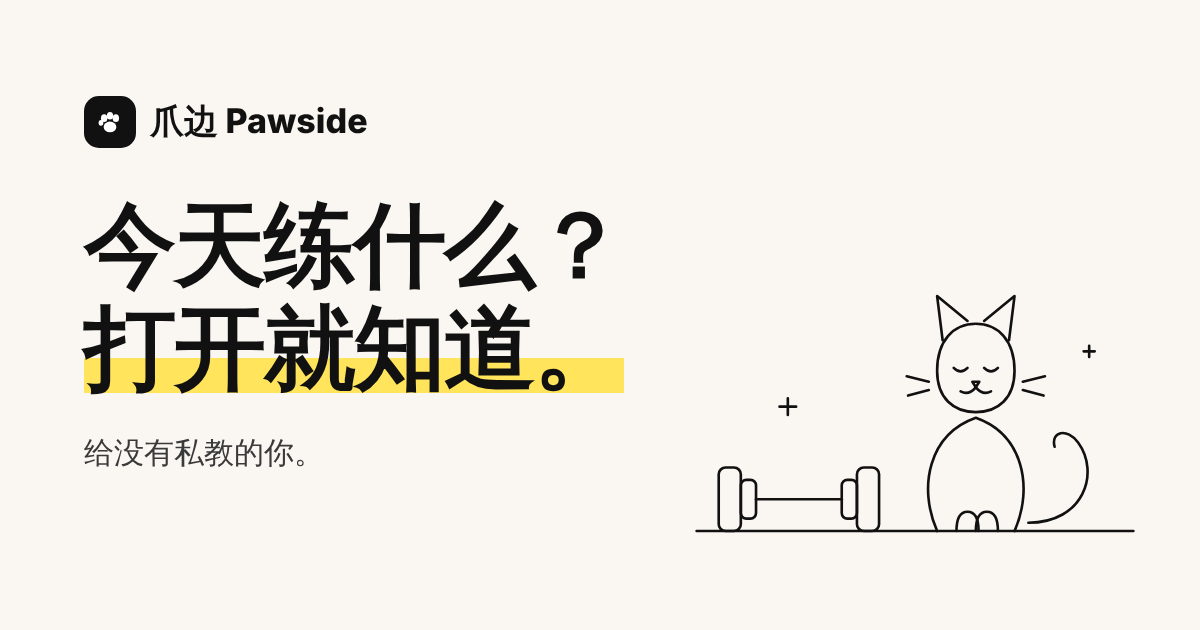
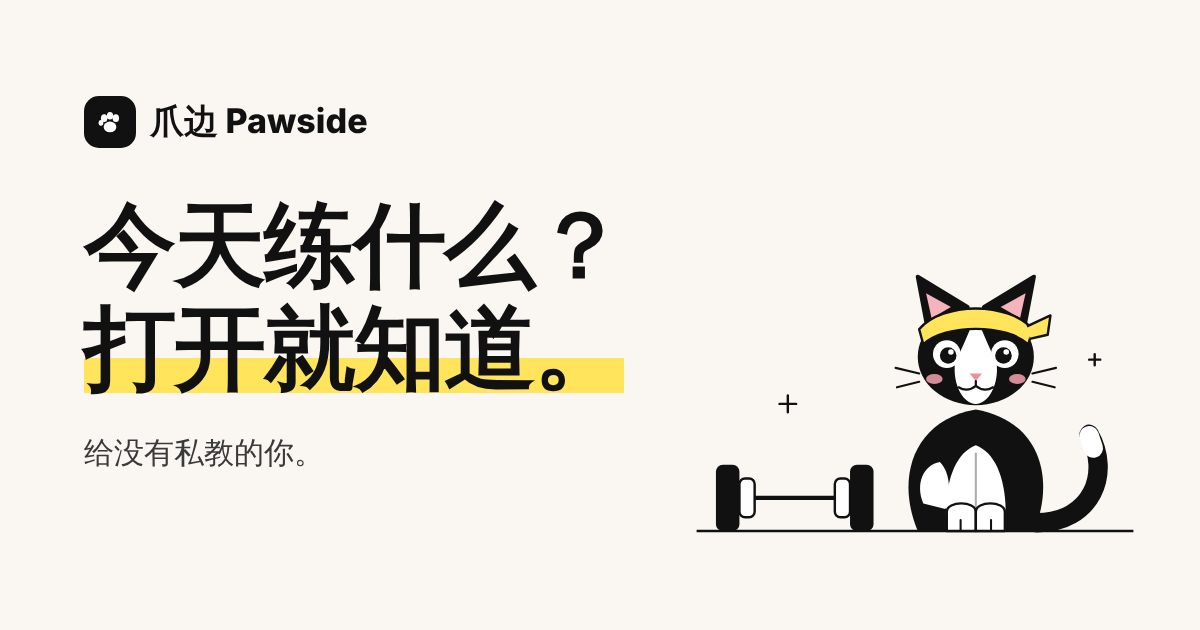
feat(site): cow cat mascot (black coat, white socks, yellow sweatband) for hero and link preview
Claude-Session: https://claude.ai/code/session_017bDjspxUVvBUqU1GUYnTaC

Changed region(s): [[0.5858, 0.4222, 0.925, 0.8444], [0.8942, 0.5429, 0.925, 0.573], [0.6475, 0.6333, 0.6783, 0.6635]]

diff --git a/components/site/illustrations.tsx b/components/site/illustrations.tsx
@@ -28,44 +28,59 @@ export function PawMark({ size = 28, ...rest }: { size?: number } & Props) {
   )
 }
 
-/** Hero: a cat sitting next to a dumbbell. */
-export function CatWithDumbbell(props: Props) {
+/**
+ * Hero mascot: a black-and-white "cow cat" (black coat, white socks) in a yellow
+ * sweatband, sitting next to a dumbbell. Flat-coloured; the only artwork with colour.
+ */
+export function CowCatWithDumbbell(props: Props) {
   return (
-    <svg viewBox="0 0 340 280" aria-hidden="true" focusable="false" {...line} {...props}>
-      {/* floor */}
-      <path d="M12 246H328" />
+    <svg viewBox="0 0 340 280" aria-hidden="true" focusable="false" {...props}>
+      <path d="M12 246H328" stroke="#111" strokeWidth="1.75" fill="none"/>
       {/* dumbbell */}
-      <rect x="28" y="200" width="16" height="46" rx="5" />
-      <rect x="44" y="209" width="11" height="28" rx="4" />
-      <path d="M55 223H117" />
-      <rect x="117" y="209" width="11" height="28" rx="4" />
-      <rect x="128" y="200" width="16" height="46" rx="5" />
+      <rect x="26" y="198" width="17" height="48" rx="5" fill="#111"/>
+      <rect x="43" y="208" width="11" height="28" rx="4" fill="#fff" stroke="#111" strokeWidth="1.75"/>
+      <path d="M54 222H112" stroke="#111" strokeWidth="3"/>
+      <rect x="112" y="208" width="11" height="28" rx="4" fill="#fff" stroke="#111" strokeWidth="1.75"/>
+      <rect x="123" y="198" width="17" height="48" rx="5" fill="#111"/>
       {/* tail */}
-      <path d="M252 240C292 240 304 204 288 182C280 171 268 174 271 185" />
+      <path d="M258 240C298 240 312 204 296 176" stroke="#111" strokeWidth="14" fill="none" strokeLinecap="round"/>
       {/* body */}
-      <path d="M186 246C172 214 180 176 214 164C248 176 256 214 242 246" />
-      {/* head */}
-      <path d="M186 130C186 108 198 96 214 96C230 96 242 108 242 130C242 150 230 160 214 160C198 160 186 150 186 130Z" />
+      <path d="M172 246C156 208 168 166 214 158C260 166 272 208 256 246Z" fill="#111"/>
+      {/* white flank patch */}
+      <path d="M176 226C170 212 176 198 188 196C196 204 196 220 192 230Z" fill="#fff"/>
+      {/* white chest + front legs */}
+      <path d="M193 246C190 214 198 190 214 184C230 190 238 214 235 246Z" fill="#fff"/>
+      <path d="M214 190V228" stroke="#111" strokeWidth="1.5" fill="none" strokeLinecap="round" opacity=".35"/>
+      {/* white socks */}
+      <path d="M193 246V232C193 224 214 224 214 232V246Z" fill="#fff" stroke="#111" strokeWidth="1.75" strokeLinejoin="round"/>
+      <path d="M214 246V232C214 224 235 224 235 232V246Z" fill="#fff" stroke="#111" strokeWidth="1.75" strokeLinejoin="round"/>
+      <path d="M203 246V238M225 246V238" stroke="#111" strokeWidth="1.5" strokeLinecap="round"/>
+      {/* white tail tip */}
+      <path d="M299 186L296 177" stroke="#fff" strokeWidth="14" fill="none" strokeLinecap="round"/>
       {/* ears */}
-      <path d="M190 108L186 76L208 94" />
-      <path d="M238 108L242 76L220 94" />
-      {/* face: closed, content eyes */}
-      <path d="M198 128Q203 133 208 128" />
-      <path d="M220 128Q225 133 230 128" />
-      <path d="M211.5 138H216.5L214 142Z" />
-      <path d="M214 142Q209 148 203 145" />
-      <path d="M214 142Q219 148 225 145" />
+      <path d="M180 104L172 62L208 84Z" fill="#111" stroke="#111" strokeWidth="3" strokeLinejoin="round"/>
+      <path d="M248 104L256 62L220 84Z" fill="#111" stroke="#111" strokeWidth="3" strokeLinejoin="round"/>
+      <path d="M182 92L178 74L196 84Z" fill="#f4b3bd"/>
+      <path d="M246 92L250 74L232 84Z" fill="#f4b3bd"/>
+      {/* head */}
+      <ellipse cx="214" cy="120" rx="42" ry="35" fill="#111"/>
+      {/* white blaze + muzzle */}
+      <path d="M214 90C209 102 205 112 199 124C197 140 205 154 214 154C223 154 231 140 229 124C223 112 219 102 214 90Z" fill="#fff"/>
+      {/* eyes */}
+      <circle cx="193" cy="118" r="10" fill="#fff"/><circle cx="235" cy="118" r="10" fill="#fff"/>
+      <circle cx="194" cy="119" r="6" fill="#111"/><circle cx="234" cy="119" r="6" fill="#111"/>
+      <circle cx="196" cy="116.5" r="2" fill="#fff"/><circle cx="236" cy="116.5" r="2" fill="#fff"/>
+      {/* nose, mouth, blush */}
+      <path d="M209.5 132H218.5L214 137.5Z" fill="#f08c9b"/>
+      <path d="M214 137.5V141M214 141Q208 146 201.5 142M214 141Q220 146 226.5 142" stroke="#111" strokeWidth="1.6" fill="none" strokeLinecap="round" strokeLinejoin="round"/>
+      <ellipse cx="184" cy="136" rx="6" ry="3.6" fill="#f4a3b0" opacity=".85"/><ellipse cx="244" cy="136" rx="6" ry="3.6" fill="#f4a3b0" opacity=".85"/>
       {/* whiskers */}
-      <path d="M180 138L164 134" />
-      <path d="M180 144L165 148" />
-      <path d="M248 138L264 134" />
-      <path d="M248 144L263 148" />
-      {/* front paws */}
-      <path d="M200 246Q200 232 208 232Q216 232 216 246" />
-      <path d="M214 246Q214 232 222 232Q230 232 230 246" />
-      {/* a few sparkles */}
-      <path d="M78 150V162M72 156H84" />
-      <path d="M296 112V120M292 116H300" />
+      <path d="M173 132L156 128M173 138L157 142M255 132L272 128M255 138L271 142" stroke="#111" strokeWidth="1.6" fill="none" strokeLinecap="round"/>
+      {/* sweatband */}
+      <path d="M173 100C190 80 238 80 255 100L252 111C236 96 192 96 176 111Z" fill="#ffe45c" stroke="#111" strokeWidth="1.75" strokeLinejoin="round"/>
+      <path d="M251 98L268 90L266 104L253 107" fill="#ffe45c" stroke="#111" strokeWidth="1.75" strokeLinejoin="round"/>
+      {/* sparkles */}
+      <path d="M78 148V160M72 154H84M300 118V126M296 122H304" stroke="#111" strokeWidth="1.75" strokeLinecap="round" fill="none"/>
     </svg>
   )
 }

diff --git a/app/welcome/page.tsx b/app/welcome/page.tsx
@@ -5,7 +5,7 @@ import PhoneDemo, { type DemoStep } from '@/components/site/PhoneDemo'
 import Reveal from '@/components/site/Reveal'
 import StatusBadge from '@/components/site/StatusBadge'
 import {
-  CatWithDumbbell,
+  CowCatWithDumbbell,
   IconCamera,
   IconBowl,
   IconChat,
@@ -116,7 +116,7 @@ export default function WelcomePage() {
             </div>
             <p className="hero__note">手机浏览器打开即可，也能添加到主屏幕。</p>
           </div>
-          <CatWithDumbbell className="hero__art" />
+          <CowCatWithDumbbell className="hero__art" />
         </div>
         <PawTrail className="hero__trail" />
       </section>

diff --git a/docs/marketing/MESSAGE_HOUSE.md b/docs/marketing/MESSAGE_HOUSE.md
@@ -225,6 +225,7 @@
    例：「三分化：把全身分成三天，推、拉、腿，轮着练。」
 4. **幽默来自场景，不来自产品装可爱。** 笑点是「你站在器械前发愣」，不是「我们的产品好害羞」。
 5. **产品不是角色**，不写它的情绪、表情、动作（「它默默地……」）。猫只出现在视觉层。
+   - **形象（2026-10-06 与 Sylvan 确认）：奶牛猫**，「黑皮白袜体育生」——黑色的身体和头、白色的脸中线和胸口、白袜子，戴黄色运动头带。官网 hero 里的 `CowCatWithDumbbell` 就是它。后续吉祥物、提醒小黑猫等视觉都沿用这个形象。
 6. **不吓人、不评判、不催。** 不说「你落后了」「别偷懒」。
 7. **不承诺结果。** 不写「X 周瘦 X 斤」「保证增肌」。
 8. **能量化就量化，但只用真实数字。** 不用编出来的百分比或用户数。
